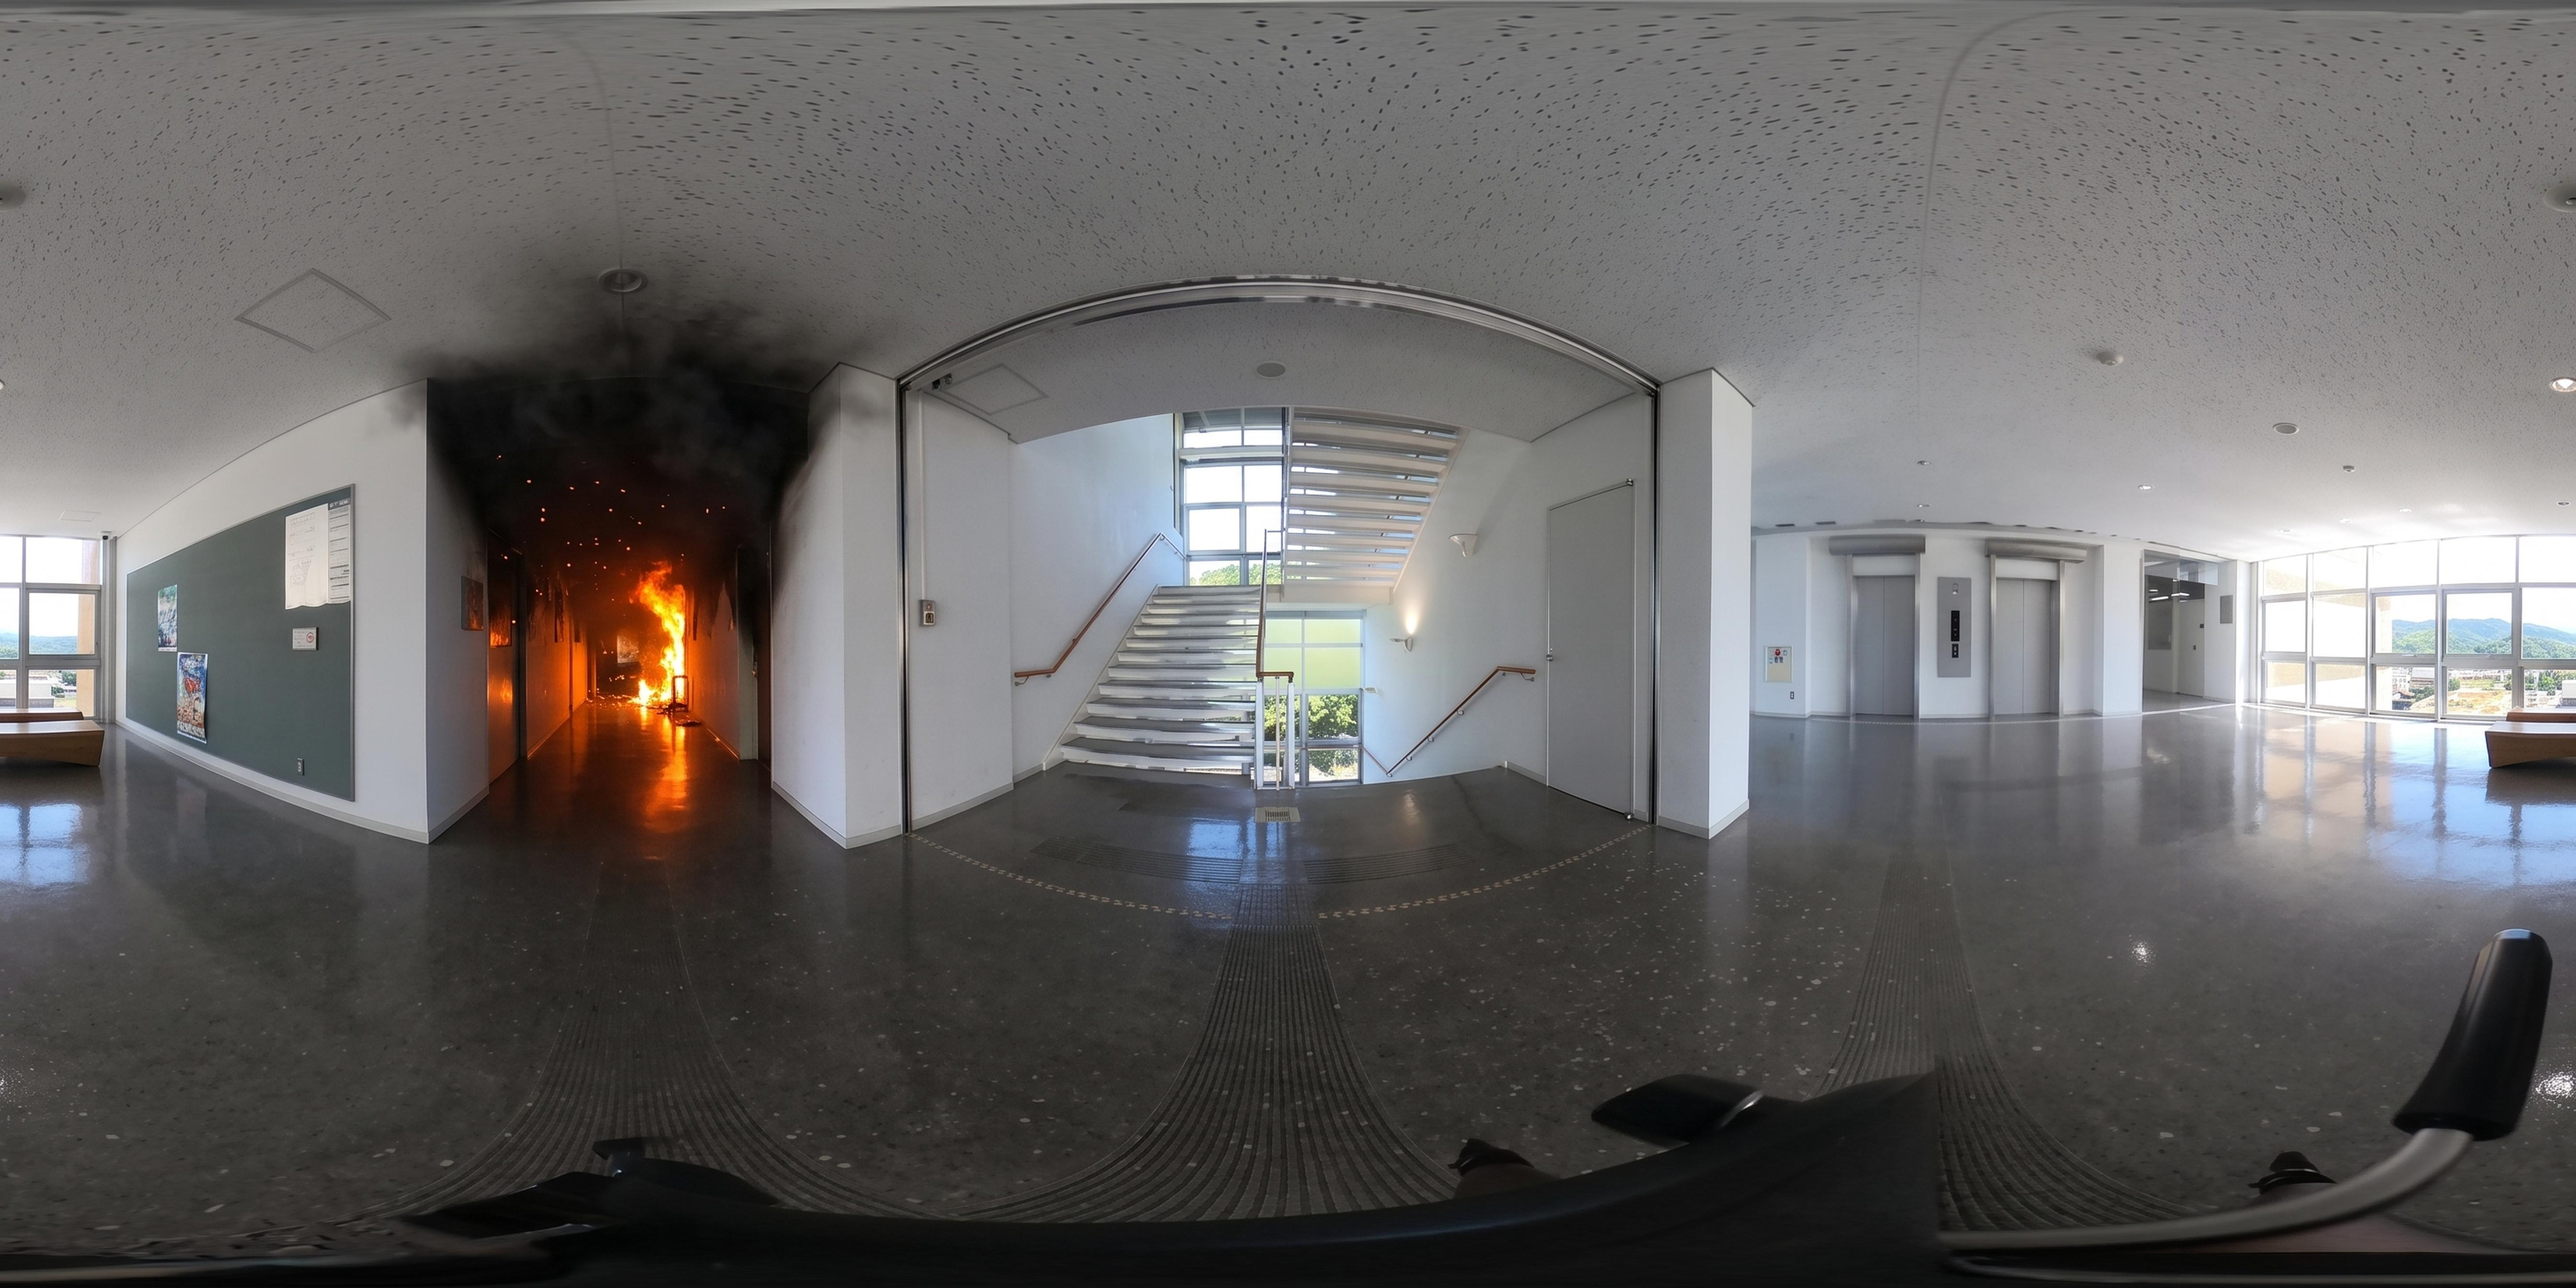
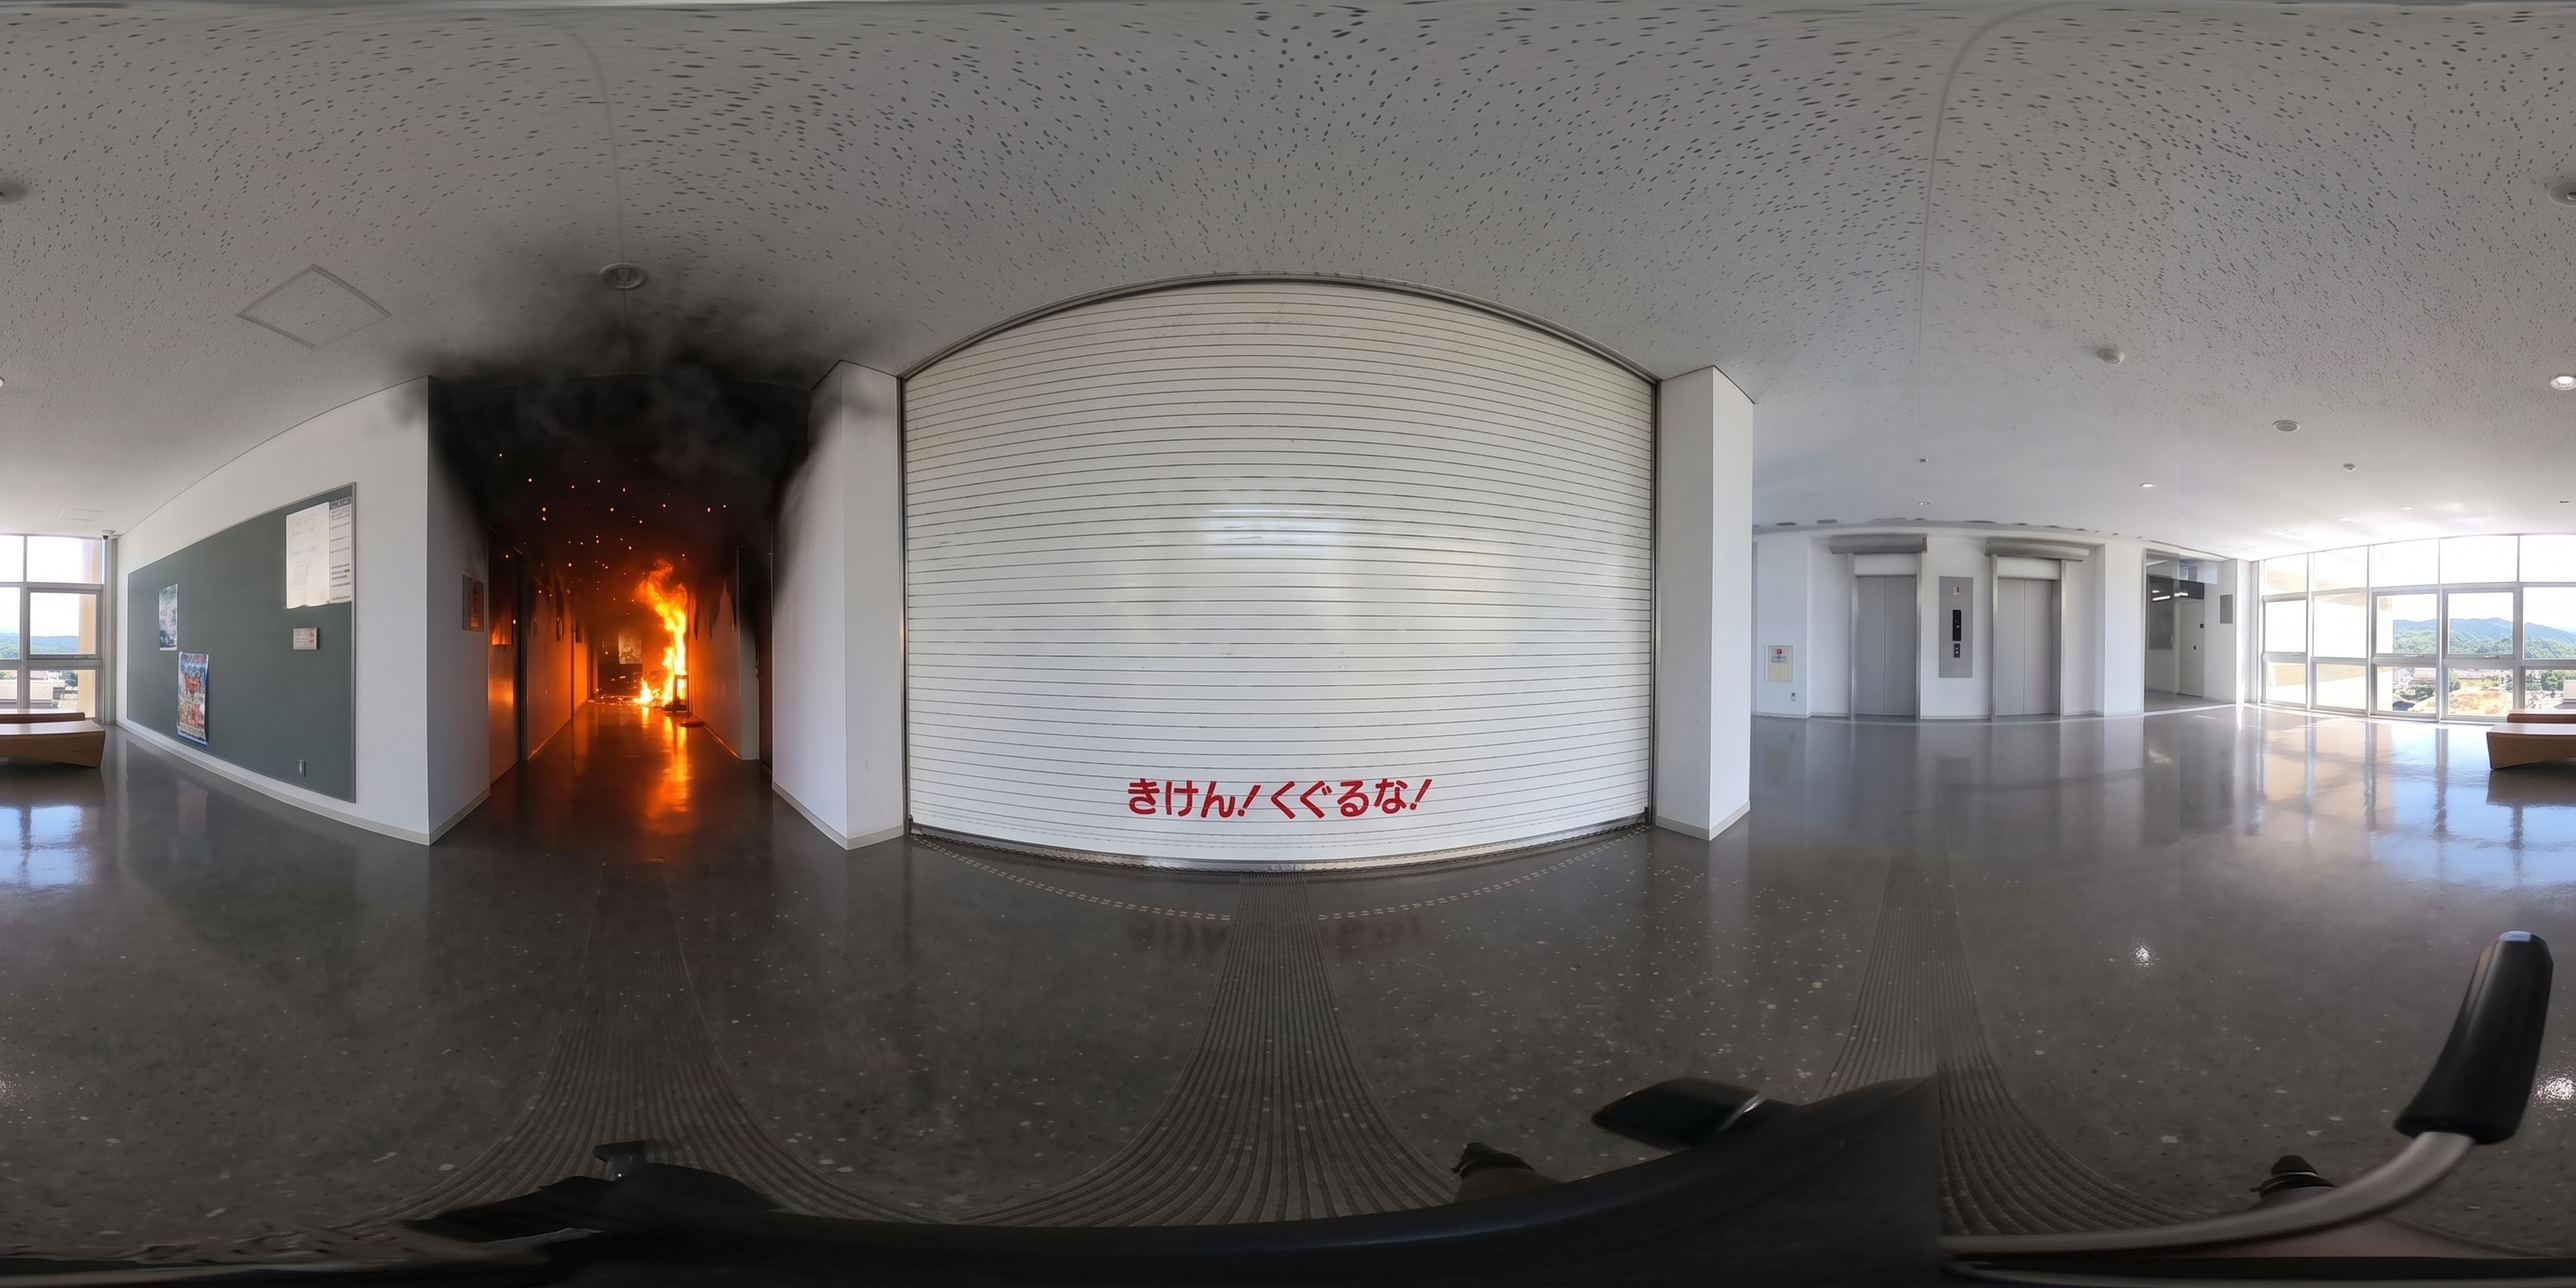
test

diff --git a/index.html b/index.html
@@ -1,13 +1,4 @@
-ご指示の2点を修正しました。
-
-**修正のポイント**
-
-1. **画像の変更対象を修正**：火災シナリオ選択時に `fire_1.jpg` へ差し替える対象を、`scene4` ではなく `scene3` に変更しました。
-2. **メッセージ表示タイミングの修正**：火災シナリオにおいて、「4階トイレにて火災発生！…」のメッセージを**最初の画面（scene1）にいる時のみ**表示し、他の画面に移動すると非表示になるようにしました。（※ゴール地点である `scene22` 到達時の「避難完了」メッセージはそのまま表示されるように残しています）
-
-以下が変更を反映したコード全体です。
-
-```html
+html
 <!DOCTYPE html>
 <html lang="ja">
 <head>
@@ -690,5 +681,3 @@
     </script>
 </body>
 </html>
-
-```
